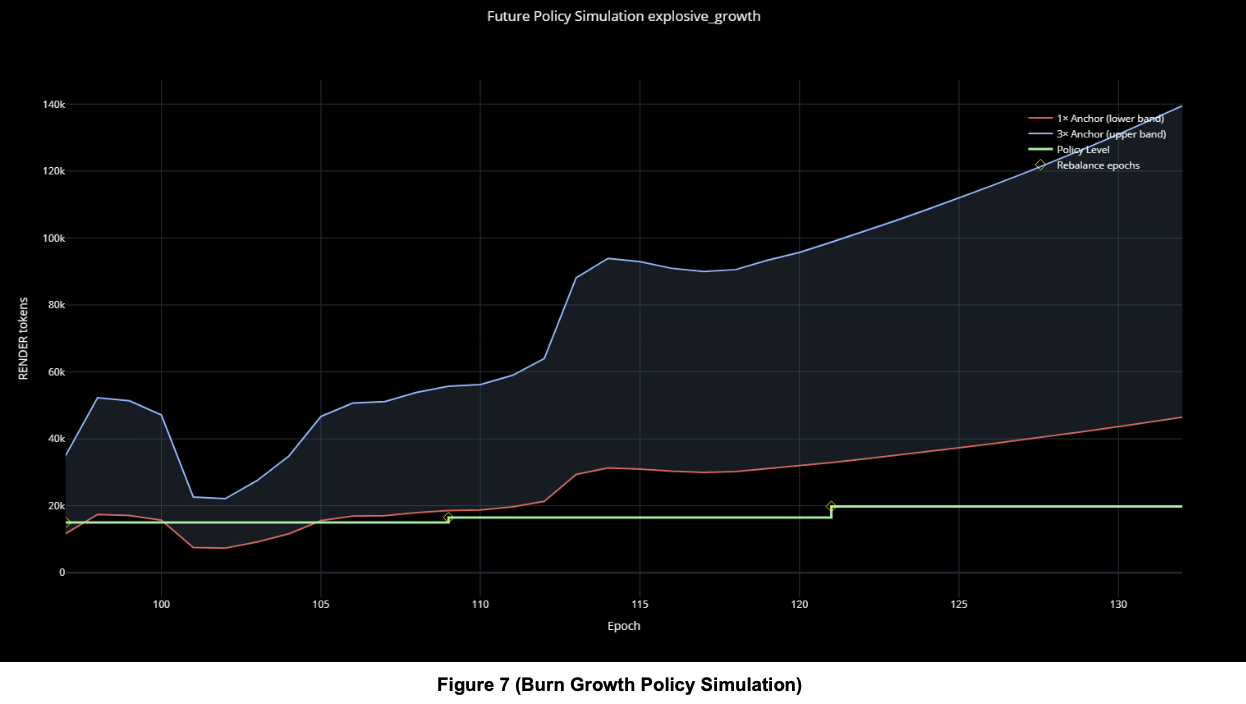
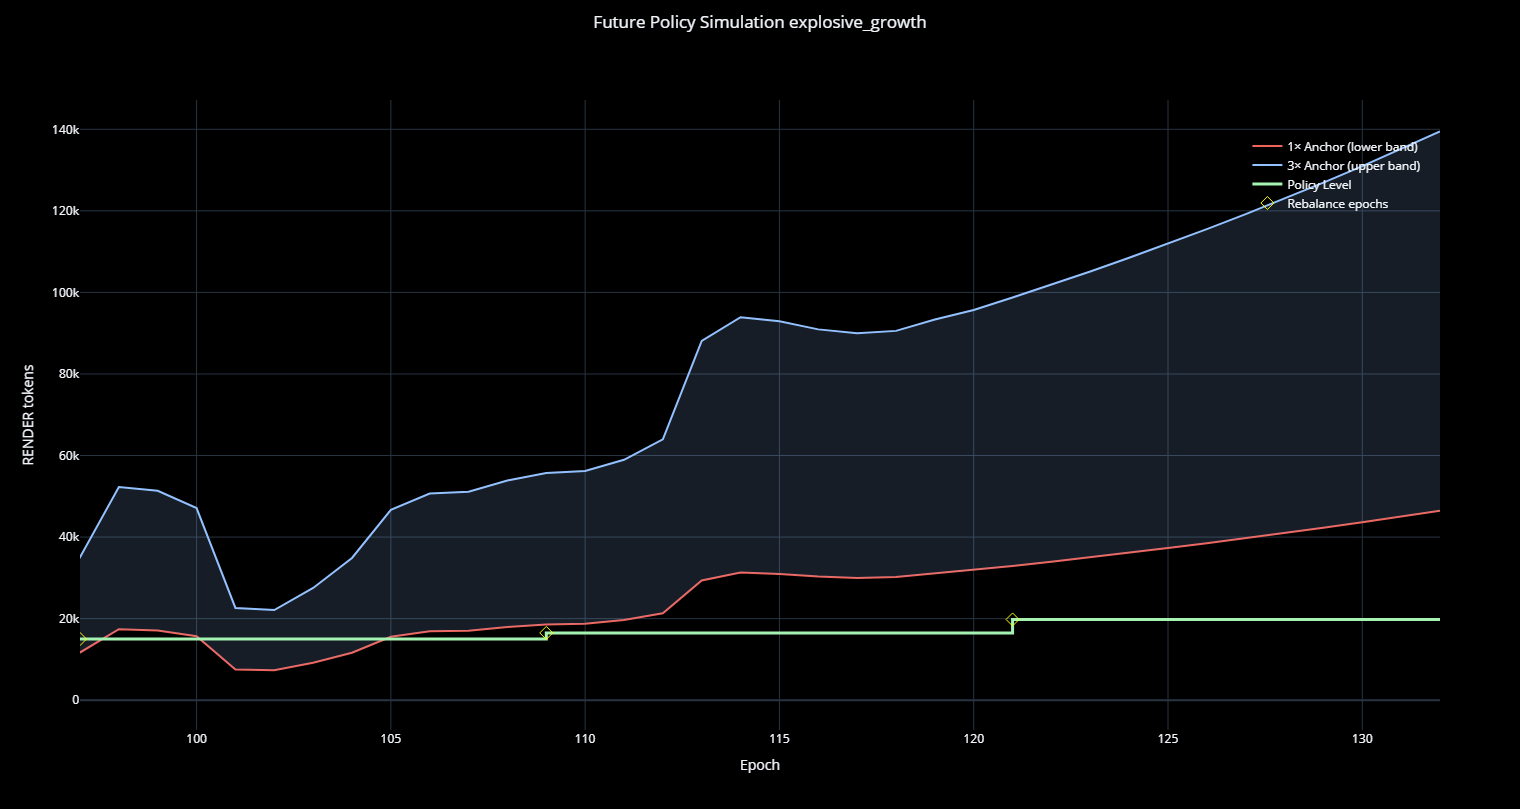
Added higher quality images, fixed formatting of equations in markdown

diff --git a/RNP-020.md b/RNP-020.md
@@ -41,9 +41,9 @@ This system is designed to achieve several key goals:
 # Competitor Analysis
 ![](RNP-020/media/image1.png)
 
-The render network is by far the cheapest option available to artists today. Figure 1 shows the ranges of prices available on some of the most popular centralized render farms.
+<sub>**Figure 1 (Competitor Cost Bands)**: Render is by far the most affordable rendering service. This proposal's payment adjustments keeps The Render Network competitive while paying our operators fairly.</sub>
 
-**Figure 1 (Competitor Cost Bands)**: Render is by far the most affordable rendering service. This proposal's payment adjustments keeps The Render Network competitive while paying our operators fairly.
+The render network is by far the cheapest option available to artists today. Figure 1 shows the ranges of prices available on some of the most popular centralized render farms.
 
 The T2 equivalent range above each competitor attempts to estimate what prices would return a job in a similar timeframe as render's T2. The dashed bars show how changes to the Euro to Dollar ratio change competitor pricing. It is evident from the estimates above, a conservative range of 1-3x T2 covers the vast majority of competitors' comparable ranges.
 
@@ -60,10 +60,15 @@ Additional notes used in estimating T2 equivalents for each competitor:
 # Calculation Method
 ![](RNP-020/media/image2.png)
 
+<sub>**Figure 2 (Quarterly Burns)**: This chart shows network usage is growing. As more work is done on the network (higher burns), the network recognizes this growth.</sub>
+
 ![](RNP-020/media/image3.png)
 
+<sub>**Figure 3 (Quarterly Node Operators)**: This chart tracks the supply of node operators. The policy formula uses this data to ensure payments are balanced with the number of available operators in each tier.</sub>
 
 ![](RNP-020/media/image4.png)
+
+<sub>**Figure 4 (Average Work Share Per Tier)**: This chart shows the most recent official OB hour data per tier split with a work/availability ratio of 4 as the rough boundary between tiers.</sub>
 
 # Quarterly Rebalancing Formula
 
@@ -113,6 +118,8 @@ The floor for work issuance will be set at the previous policy level until the q
 ## Ceiling
 ![](RNP-020/media/image5.png)
 
+<sub>**Figure 5 (Top Liquidity Pool Quarterly Daily True Range %)**: This chart shows the current largest RENDER pool's quarterly average daily volatility.</sub>
+
 The ceiling for issuance is set with the maximal uncharitable assumption that if all tokens issued to node operators are sold into only the DEX pool on solana with the highest 7 day avg volume (currently the RENDER/SOL Raydium pool) over a 24hr period evenly (TWAP of 24 equal slices), the price would not move more than the quarterly average daily true range percent of the token.
 
 **Example**: In Fig 2 above, the 90 day TR%'s latest value is 14.47%. Avg daily volume was 737.6k USD, with an aggressiveness factor of 1.3 and a token price of 3.83 that gives a max cap of 113k RENDER, well above the current 15k policy level.
@@ -126,6 +133,8 @@ Rebalances will now continue on the last Friday of every rebalance month (Februa
 ## Historical Policy Simulation
 ![](RNP-020/media/image6.png)
 
+<sub>**Figure 6 (Historical Policy Simulation)**</sub>
+
 The figure above illustrates a simulation of the proposed policy. Had it been implemented at the start of BME (initial issuance: 47.4k/epoch), the policy would have settled within three quarters. Following this stabilization period, issuance would have remained within a stable range, bounded between 27.6k (epoch 36) and 25.1k (epoch 97).
 
 The 1x Anchor line represents the result of the Quarterly Rebalance and Min-Max Equal Pain equations in the appendix, 3x is simply that value multiplied by 3. The policy level line is a result of the logic explained above.
@@ -133,10 +142,14 @@ The 1x Anchor line represents the result of the Quarterly Rebalance and Min-Max 
 ## Burn Growth Policy Simulation
 ![](RNP-020/media/image7.png)
 
+<sub>**Figure 7 (Burn Growth Policy Simulation)**</sub>
+
 This future simulation of the proposed policy shows what happens if burns 3x over 9 months exponentially (36 epochs). This situation could either mean the token decreased in price by 66.6% as USD burns stayed constant, or that USD burns increased 3x while price remained constant, or some combination of the two. This illustrates how policy handles rapid, accelerating growth and the importance of the 10% cap and escalation in making controlled steps that also ensure burns exceed issuance while paying ops fairly.
 
 ## Burn Downturn Policy Simulation
 ![](RNP-020/media/image8.png)
+
+<sub>**Figure 8 (Burn Downturn Policy Simulation)**</sub>
 
 This market downturn simulation has average burns declining linearly 60% over 1 year (52 epochs). It shows how policy protects nodes during downturns with the 1-3x buffer zone. The issuance only decreases on the 4th quarterly rebalance. This ensures reactions to volatile market dynamics are limited and stable. The situation could be showing a world in which the token price increases by 66.6% while USD burns are constant, or where USD burns decrease 60% while token price remains unchanged, or a combination of the two.
 
@@ -217,42 +230,48 @@ Join the community discussion to provide feedback on this automated policy frame
 
 This formula calculates the new payment target. It multiplies the amount of work done (B) by the growth rate (g) and then adjusts for the change in the number of node operators across different tiers.
 
-**I = B * (1 + g) * ( [f₂(1+r₂)(1+x₂) + f₃(1+r₃)(1+x₃)] / [f₂(1+x₂) + f₃(1+x₃)] )**
+$$
+I = B \cdot (1 + g) \cdot \left( \frac{f_2(1+r_2)(1+x_2) + f_3(1+r_3)(1+x_3)}{f_2(1+x_2) + f_3(1+x_3)} \right)
+$$
 
 ## Min-Max Equal Pain Equation
 
 This formula helps to minimize the negative pay effect that would happen to one tier by adjusting the overall pool size if hours have changed at the same time that there are new operators.
 
-**Φ_mm = 1 + 𝟙[(r₂≠0) ∨ (r₃≠0)] · ( ((f₂(1+x₂)+f₃(1+x₃))·(λ₂+λ₃)) / (λ₂(1+x₂)+λ₃(1+x₃)) − 1 )**
+$$
+\Phi_{mm} = 1 + \mathbb{1}[(r_2 \neq 0) \vee (r_3 \neq 0)] \cdot \left( \frac{(f_2(1+x_2)+f_3(1+x_3)) \cdot (\lambda_2+\lambda_3)}{\lambda_2(1+x_2)+\lambda_3(1+x_3)} - 1 \right)
+$$
 
 ### Variable Definitions
 
 Where:
-* **I** = Issuance target for the next quarter
-* **B** = Average quarterly burns
-* **g** = Quarterly growth rate
-* **Φ_mm** = Min-max equal pain multiplier
-* **f₂ + f₃** = Quarterly average token share per tier (w₂:w₃ = 2:1)
-* **x₂ + x₃** = Quarterly % change in avg wallet hours by tier
-* **r₂ + r₃** = Quarterly % change in node counts per tier
-* **λ₂, λ₃** = Priority weights (default 1 and 1)
-* **𝟙[⋯]** = Indicator (1 if condition true, else 0)
+* $I$ = Issuance target for the next quarter
+* $B$ = Average quarterly burns
+* $g$ = Quarterly growth rate
+* $\Phi_{mm}$ = Min-max equal pain multiplier
+* $f_2 + f_3$ = Quarterly average token share per tier ($w_2:w_3 = 2:1$)
+* $x_2 + x_3$ = Quarterly % change in avg wallet hours by tier
+* $r_2 + r_3$ = Quarterly % change in node counts per tier
+* $\lambda_2, \lambda_3$ = Priority weights (default 1 and 1)
+* $\mathbb{1}[\cdots]$ = Indicator (1 if condition true, else 0)
 
 ## Issuance Ceiling Equation
 
 This formula acts as an emergency brake. It calculates the absolute maximum issuance without risking a major negative impact on the RENDER token price in the open market.
 
-**CI = (V / P) * ( I / (Y * σ) )²**
+$$
+CI = \frac{V}{P} \cdot \left( \frac{I}{Y \cdot \sigma} \right)^2
+$$
 
 ### Variable Definitions
 
 Where:
-* **CI** = Ceiling Issuance
-* **V** = Weekly average daily traded volume in pool (USD)
-* **P** = Token price in USD
-* **I** = Target Price Impact (fraction, same as σ)
-* **σ** = Quarterly average daily % true range of pool (fraction, same as I)
-* **Y** = Impact coefficient (1.3 is a higher than expected impact)
+* $CI$ = Ceiling Issuance
+* $V$ = Weekly average daily traded volume in pool (USD)
+* $P$ = Token price in USD
+* $I$ = Target Price Impact (fraction, same as $\sigma$)
+* $\sigma$ = Quarterly average daily % true range of pool (fraction, same as $I$)
+* $Y$ = Impact coefficient (1.3 is a higher than expected impact)
 
 # Appendix 2 - Implementation Examples
 
